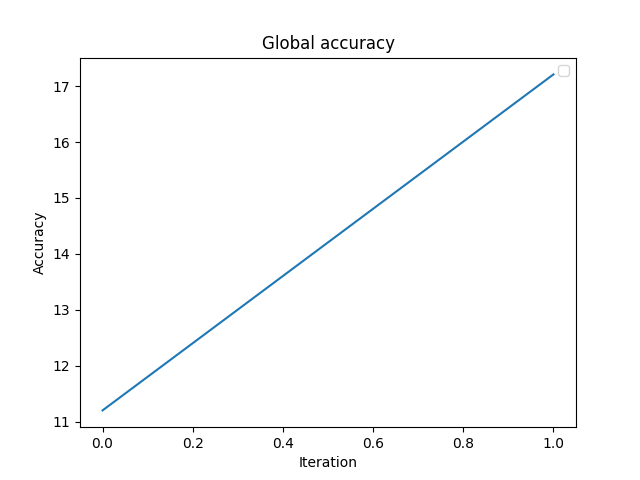
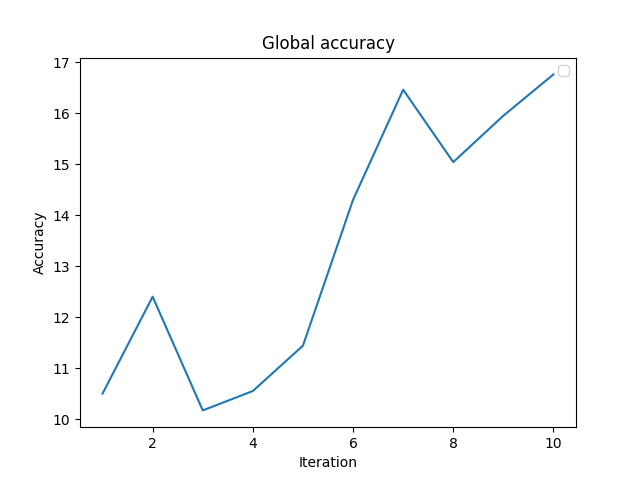
fig

diff --git a/plot.py b/plot.py
@@ -2,7 +2,7 @@ import matplotlib.pyplot as plt
 import numpy as np
 def plot_accuracy(accuracy_vals, iterations):
     data = np.squeeze(accuracy_vals)
-    plt.plot(data)
+    plt.plot(range(1, iterations + 1), accuracy_vals)
     plt.xlabel("Iteration")
     plt.ylabel("Accuracy")
     plt.title("Global accuracy")
@@ -24,7 +24,7 @@ def plot_accuracy_workers(accuracy_workers, iterations, num_workers):
 
 def plot_loss_workers(loss_workers, iterations, num_workers):
     for i in range(num_workers):
-        plt.plot(iterations, loss_workers[i])
+        plt.plot(range(1,iterations + 1), loss_workers[i])
     plt.xlabel("iter")
     plt.ylabel("loss")
     plt.title("Local loss")

diff --git a/main.py b/main.py
@@ -147,7 +147,6 @@ else:
         print("Iter {}: \taccuracy is {}".format(i + 1, accuracy))
 
 print("Final accuracy is {}.".format(accuracy))
-ray.shutdown()
 
 
 plot_accuracy(accuracy_vals, iterations)
@@ -167,6 +166,7 @@ for i in range(num_workers):
 
 for i in range(num_workers):
     loss_workers[i].append(
-        [ray.get(workers[i].get_loss_vals.remote())])
+        ray.get(workers[i].get_loss_vals.remote()))
 
 plot_loss_workers(loss_workers, iterations, num_workers)
+ray.shutdown()

diff --git a/config.py b/config.py
@@ -1,6 +1,6 @@
 n_workers = 10
 n_ps = 1
-iterations = 5
+iterations = 10
 imagenet_path = ''
 until_80 = False
 lr = 0.025
